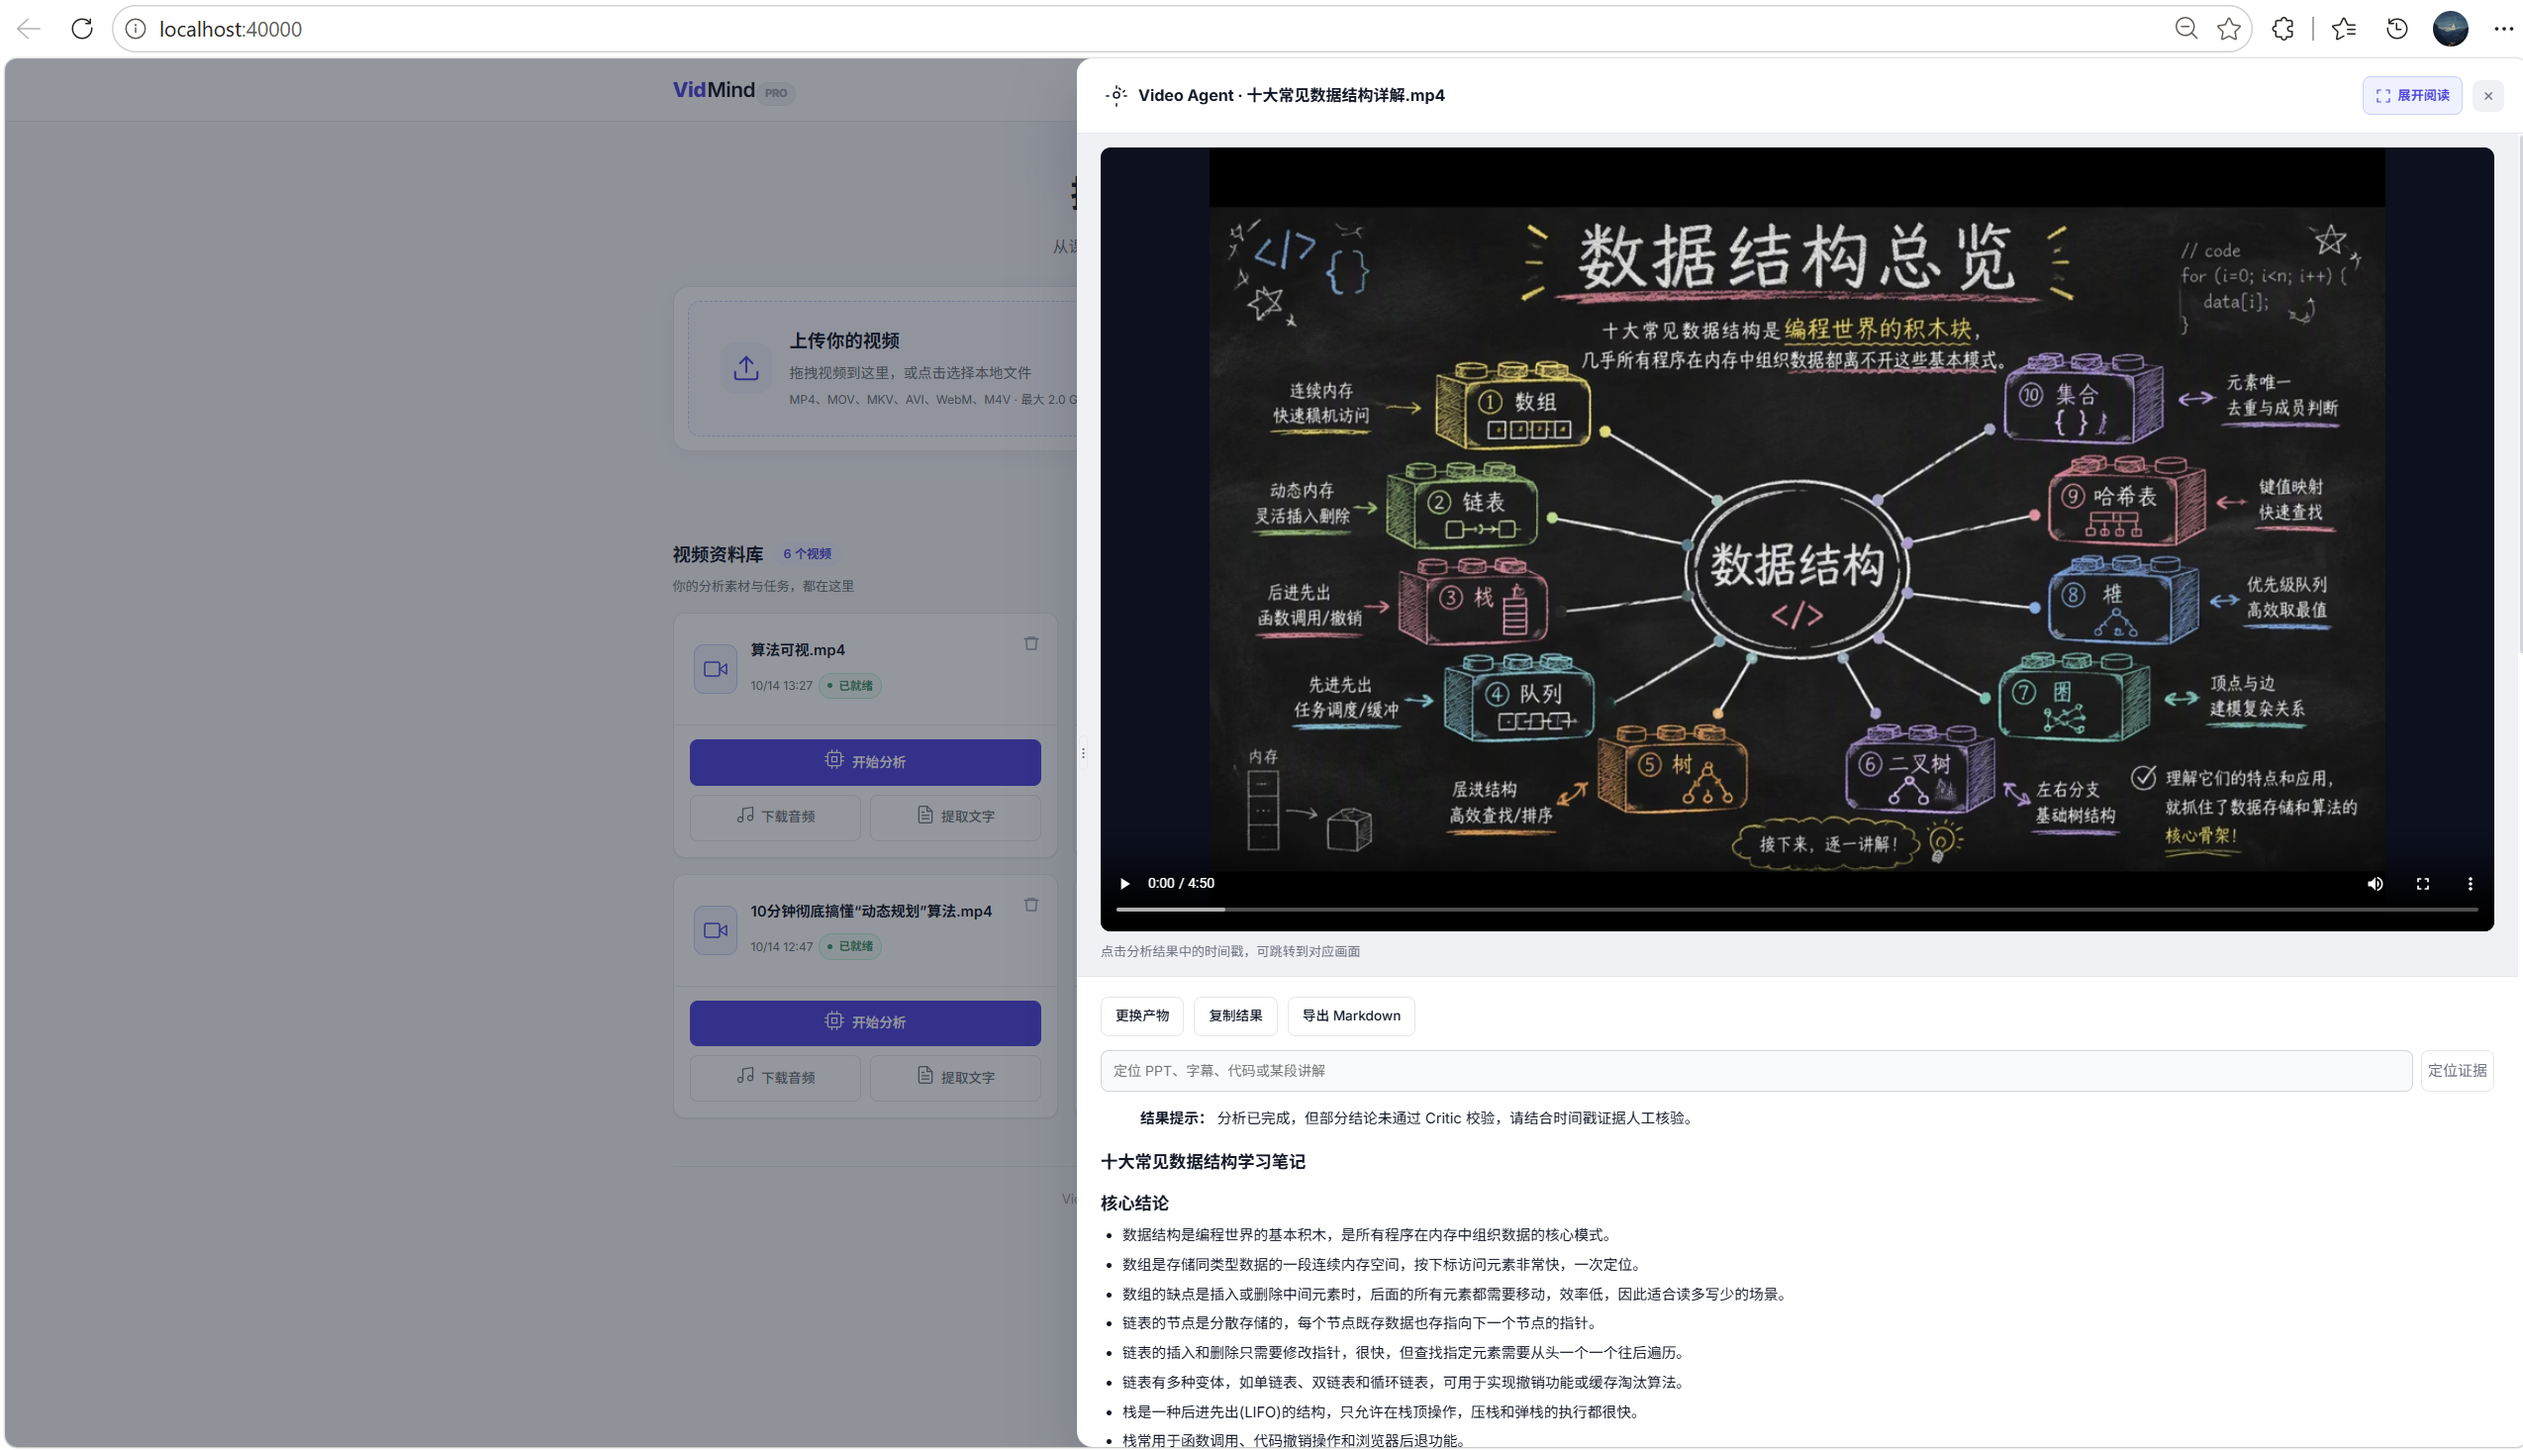
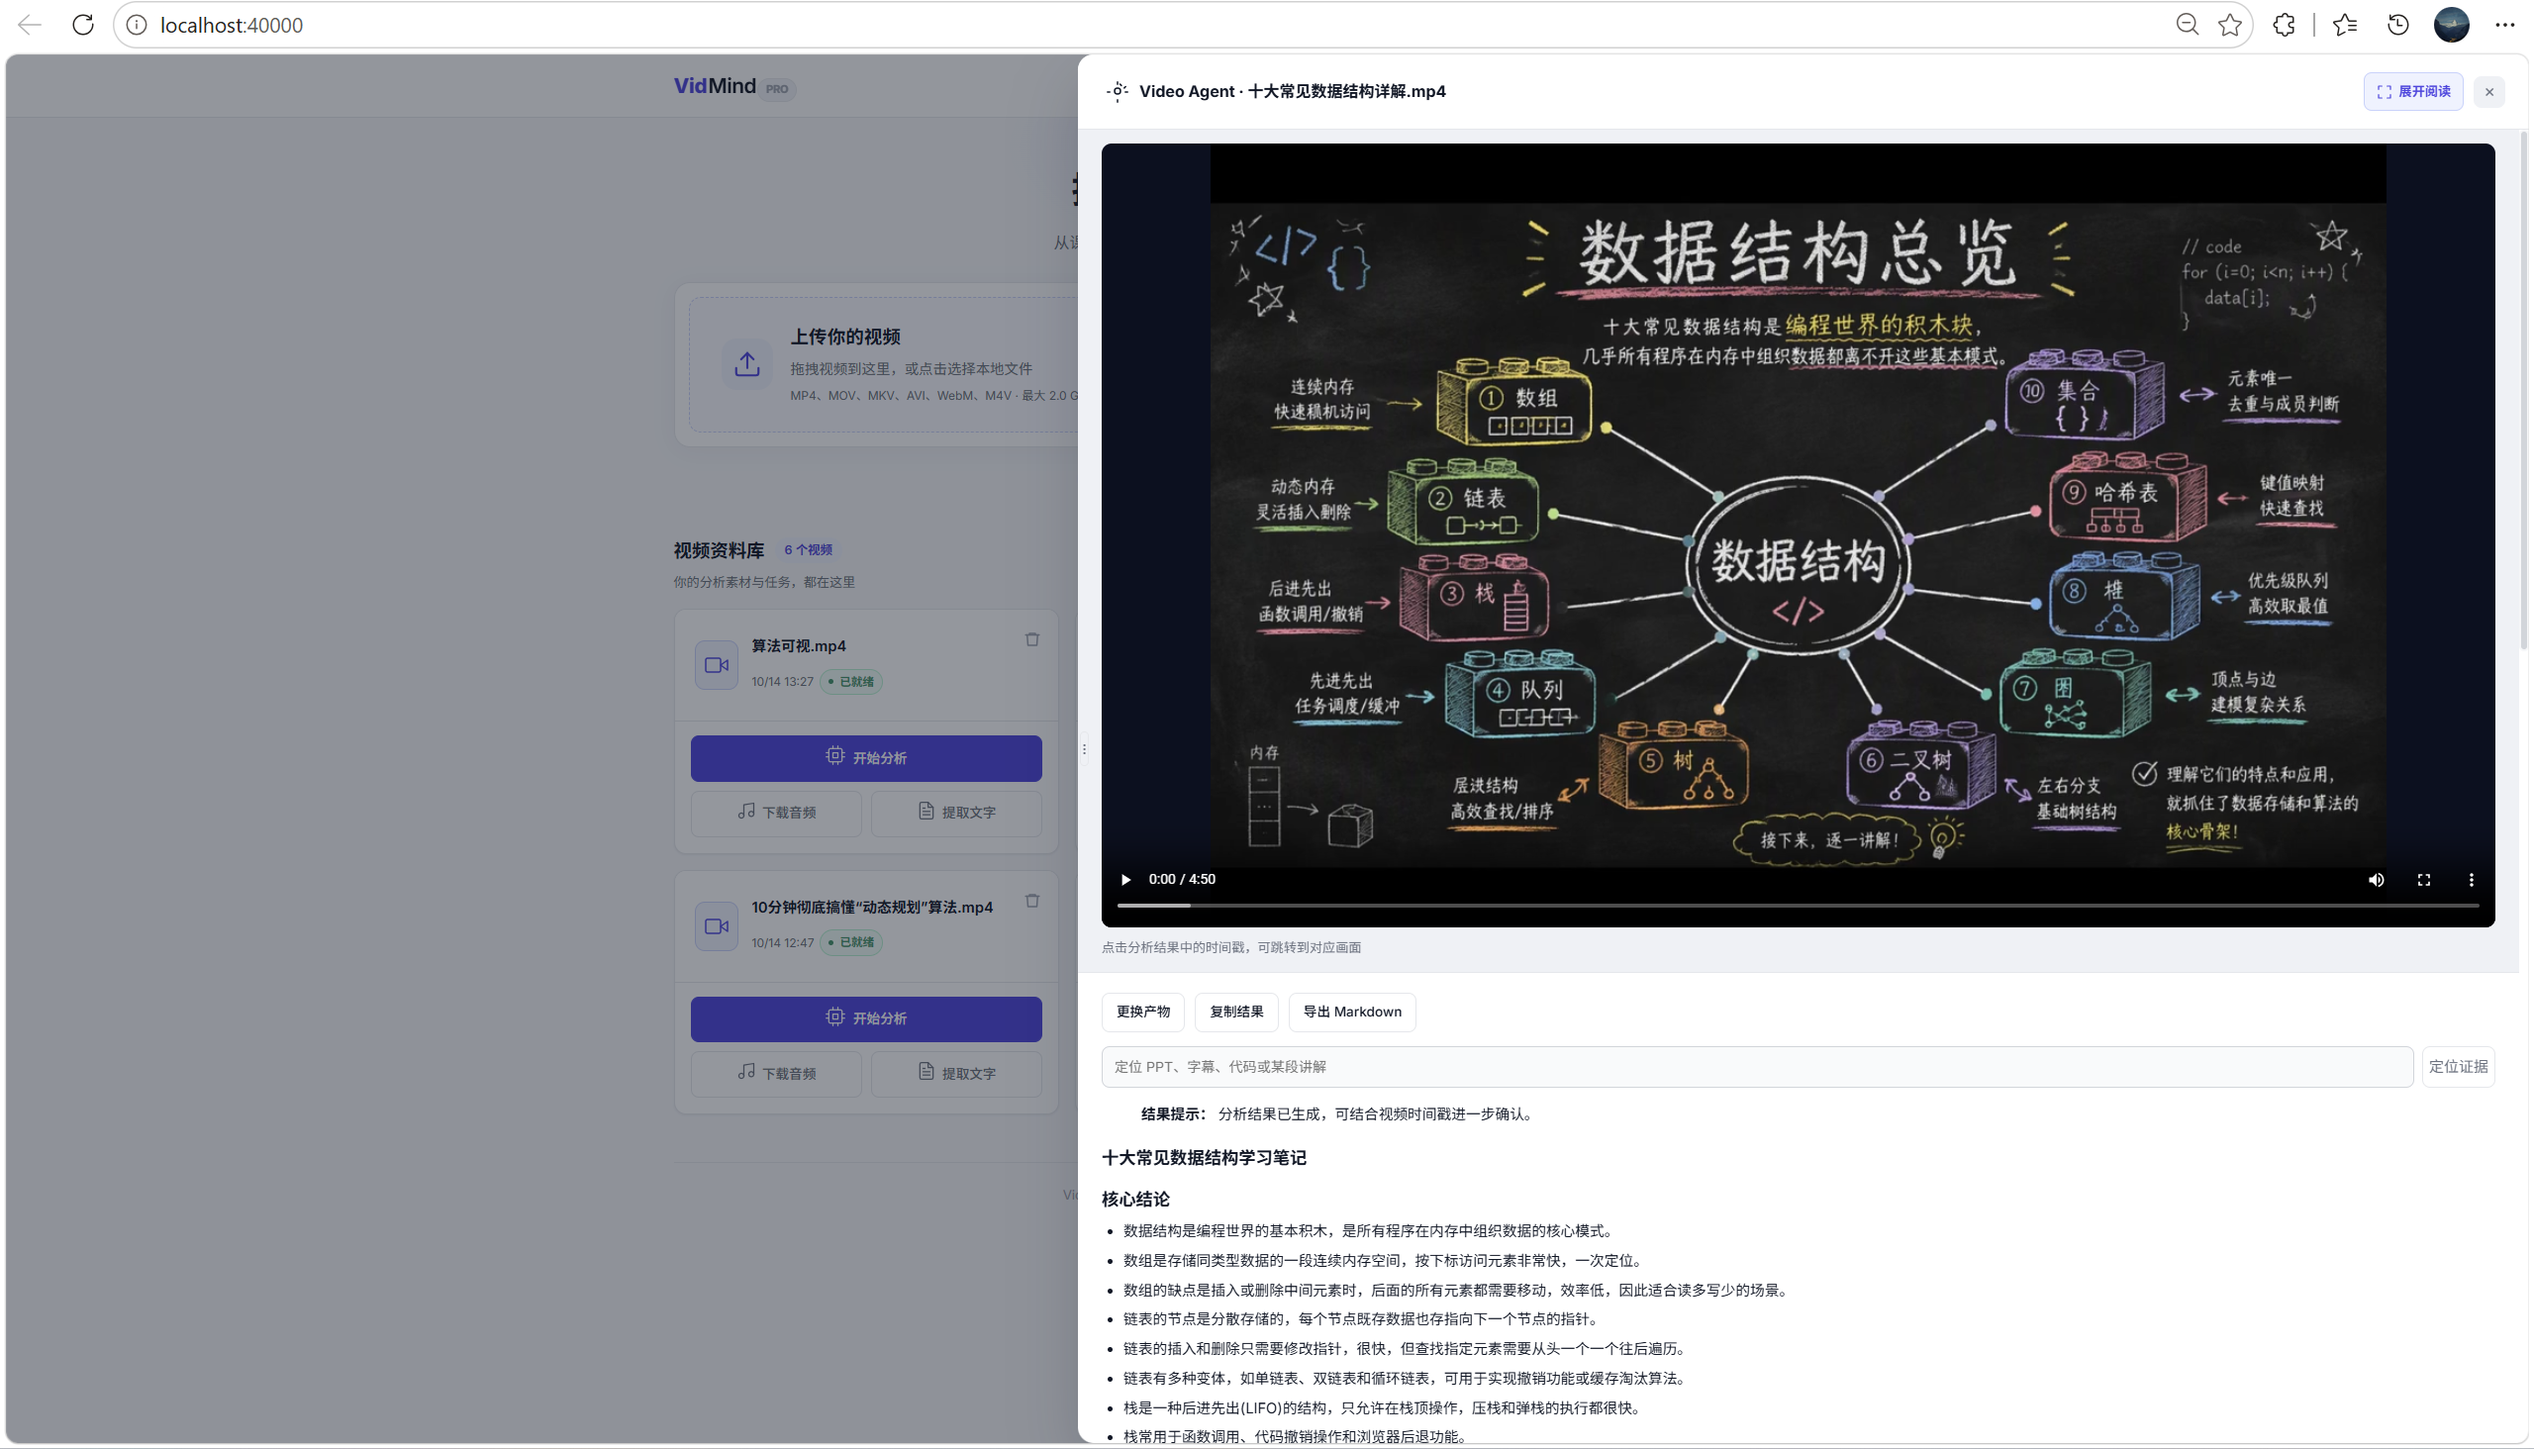
fix(analysis): clarify completion message and refresh result screenshot

diff --git a/server/src/main/java/com/vidmind/server/dto/TaskStatus.java b/server/src/main/java/com/vidmind/server/dto/TaskStatus.java
@@ -23,7 +23,7 @@ public record TaskStatus(State state, String result, String message) {
         if (agentState.critique() != null && agentState.critique().passed()) {
             return completed(markdown);
         }
-        String warning = "分析已完成，但部分结论未通过 Critic 校验，请结合时间戳证据人工核验。";
+        String warning = "分析结果已生成，可结合视频时间戳进一步确认。";
         return new TaskStatus(State.COMPLETED, "> **结果提示：** " + warning + "\n\n" + markdown, warning);
     }
 }
